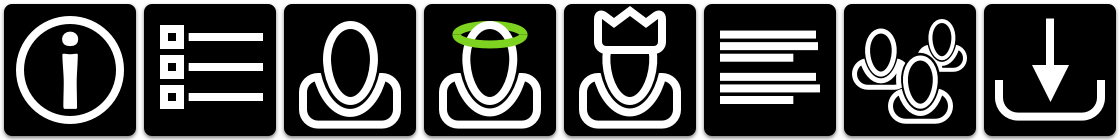
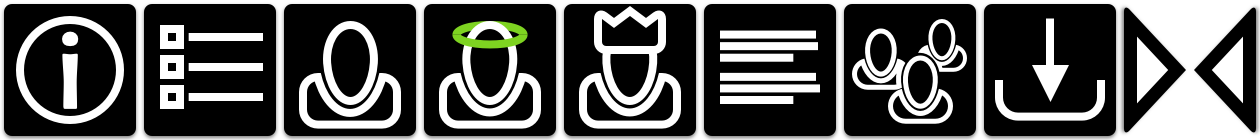
- some styling of nav bar - highlighting of current section nav element - regularisation of behaviour

diff --git a/Survey/app/scripts/survey.js b/Survey/app/scripts/survey.js
@@ -409,8 +409,10 @@
 
                       $('.nav-previous').removeClass ('disabled');
 
+                      /* REMOVED: now 'enabling' the nav when the user answers a question
                       //Enable a specific section the first time the user navigates to it
                       $('#nav-' + sections[currentSection].name).removeClass ('disabled');
+                      */
 
                       if (currentSection == (sections.length - 1))
                       {
@@ -467,8 +469,9 @@
                     hideSection (currentSection);
                     currentSection = targetSection;
                     showSection (currentSection);
-                    $("body").animate({ scrollTop: $("#survey-top").offset().top }, 500);
 
+                    $("body").animate({ scrollTop: $("#survey-top").offset().top }, 500);
+                    
                     // ensure next and prev buttons are properly enabled
                     if (currentSection == 0) {
                       $('.nav-next').removeClass ('disabled');
@@ -499,6 +502,9 @@
     {
       var qID, answerNum, mainQ;
 
+      // will build array of sections, then activate them
+      var active_sections = [];
+
       // CHECKBOXES
 
       // select every element that starts with chk
@@ -516,6 +522,12 @@
           bits = value.match(/^(\d+)(\s+\((.*)\))?$/);
           if (bits && bits[1] == answerNum)
           {
+            // found an answered checkbox
+            
+            // store its parent section
+            if (active_sections.indexOf($(mainQ).parents("section").attr('id')) == -1 )
+              active_sections.push($(mainQ).parents("section").attr('id'));
+
             $(mainQ).prop ('checked', true);
             // trigger change events
             $(mainQ).trigger('change');
@@ -542,11 +554,24 @@
         // with text in it
         if (responses[qID] && responses[qID][0])
         {
+          // store its parent section
+            if (active_sections.indexOf($(mainQ).parents("section").attr('id')) == -1 )
+              active_sections.push($(mainQ).parents("section").attr('id'));
+
           $(mainQ).val(responses[qID][0]);
           // trigger change events
           $(mainQ).trigger('change');
         }
       });
+
+      // turn on navigation for active sections
+      $.each(active_sections, function (index, section) {
+        $('#nav' + section.substring(7)).removeClass('disabled');
+      });
+
+      // always add submit section if there are previous answers
+      if (active_sections.length > 0)
+        $('#nav-submit').removeClass('disabled');
     }
 
 
@@ -612,6 +637,7 @@
         {
           $('#section-' + sections[section].name).addClass ('hide');
         }, 1000);
+    $('#nav-' + sections[section].name).removeClass ('current');
   };
 
   /**
@@ -629,6 +655,7 @@
         {
           $('#section-' + sections[section].name).removeClass ('section-hide');
         }, 1000);
+    $('#nav-' + sections[section].name).addClass ('current');
   };
 
   /**
@@ -697,6 +724,10 @@
                         if (tmp.val() && !qAnswered) {
                           qAnswered = true;
                           numAnswers += 1;
+
+                        // currently allowing 'disabled' navs to be clicked
+                        $("#nav-" + section.name).removeClass('disabled');
+
                         }
                         values.push (sanitizeJSON (tmp.val ()));
                       }
@@ -707,6 +738,10 @@
                           if (!qAnswered) {
                             qAnswered = true;
                             numAnswers += 1;
+
+                        // currently allowing 'disabled' navs to be clicked
+                        $("#nav-" + section.name).removeClass('disabled');
+
                           }
 
                           //Extract the letter

diff --git a/Survey/app/styles/survey-styles.scss b/Survey/app/styles/survey-styles.scss
@@ -2,11 +2,13 @@
 // endbower
 
 //-- Variables --------------
-$colour-beige: #AF8054;
-$colour-brown: #3F3034;
+//$colour-beige: #AF8054;
+$colour-beige: orange;
+//$colour-brown: #3F3334;
+$colour-brown: sienna;
 $colour-grey: #CCC;
 $colour-grey-dark: #333;
-$nav-image-file: url("/survey/images/nav_survey.995f53d7.png");
+$nav-image-file: url("/survey/images/nav_survey.9873f8a0.png");
 
 .survey-container {
   width: 800px;
@@ -47,10 +49,14 @@ $nav-image-file: url("/survey/images/nav_survey.995f53d7.png");
   }
 
   //-- Elements ---------------
-  a.disabled,
+  a.disabled
+  {
+    opacity: 0.3;
+  }
+
   input.disabled
   {
-    opacity: 0.1;
+    opacity: 0.3;
     pointer-events: none;
   }
 
@@ -206,17 +212,19 @@ $nav-image-file: url("/survey/images/nav_survey.995f53d7.png");
     //-webkit-transition: width 0.5s ease;
     //transition: width 0.5s ease;
 
+    &.current,
     &:active,
-    &:focus,
+    //&:focus,
     &:hover
     {
+      opacity: 1 !important;
       background-color: $colour-beige;
     }
 
     &.disabled
     {
       //background-color: $colour-grey;
-      opacity: 0.1;
+      opacity: 0.3;
     }
 
     &.shrunk
@@ -228,16 +236,21 @@ $nav-image-file: url("/survey/images/nav_survey.995f53d7.png");
 
   .nav-next
   {
-    background-color: transparent !important;
-    border-color: transparent transparent transparent $colour-brown;
-    border-style: solid;
-    border-width: 35px 0 35px 57px;
-    height: 0;
-    margin: 0;
-    width: 0;
 
-    -webkit-transition: border-color 0.25s ease;
-    transition: border-color 0.25s ease;
+    height: 70px;
+    width: 35px;
+    background: $nav-image-file no-repeat -560px 0px;
+    background-size: auto 100%;
+
+    //background-color: transparent !important;
+    //border-color: transparent transparent transparent $colour-brown;
+    //border-style: solid;
+    //border-width: 35px 0 35px 57px;
+
+    margin: 0;
+
+    //-webkit-transition: border-color 0.25s ease;
+    //transition: border-color 0.25s ease;
 
     &.disabled
     {
@@ -245,25 +258,28 @@ $nav-image-file: url("/survey/images/nav_survey.995f53d7.png");
     }
 
     &:active,
-    &:focus,
+    //&:focus,
     &:hover
     {
-      border-color: transparent transparent transparent $colour-beige;
+      background-color: $colour-beige;
+      //border-color: transparent transparent transparent $colour-beige;
     }
   }
 
   .nav-previous
   {
-    background-color: transparent !important;
-    border-color: transparent $colour-brown transparent transparent;
-    border-style: solid;
-    border-width: 35px 57px 35px 0;
-    height: 0;
+    //background-color: transparent !important;
+    //border-color: transparent $colour-brown transparent transparent;
+    //border-style: solid;
+    //border-width: 35px 57px 35px 0;
+    height: 70px;
+    width: 35px;
+    background: $nav-image-file no-repeat -595px 0px;
+    background-size: auto 100%;
     margin: 0;
-    width: 0;
 
-    -webkit-transition: border-color 0.25s ease;
-    transition: border-color 0.25s ease;
+    //-webkit-transition: border-color 0.25s ease;
+    //transition: border-color 0.25s ease;
 
     &.disabled
     {
@@ -271,10 +287,11 @@ $nav-image-file: url("/survey/images/nav_survey.995f53d7.png");
     }
 
     &:active,
-    &:focus,
+    //&:focus,
     &:hover
     {
-      border-color: transparent $colour-beige transparent transparent;
+      background-color: $colour-beige;
+      //border-color: transparent $colour-beige transparent transparent;
     }
   }
 
